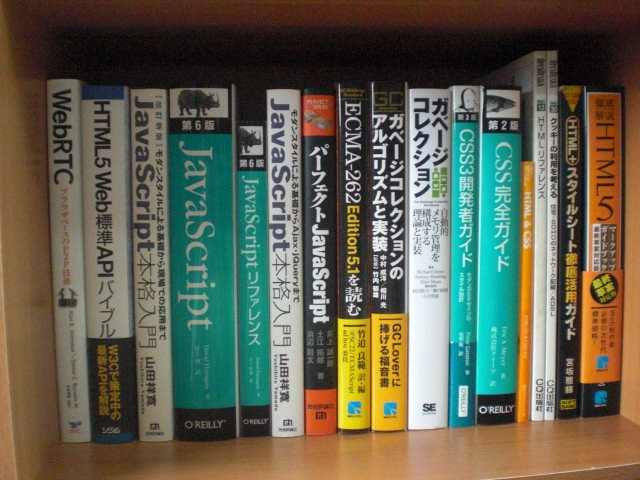
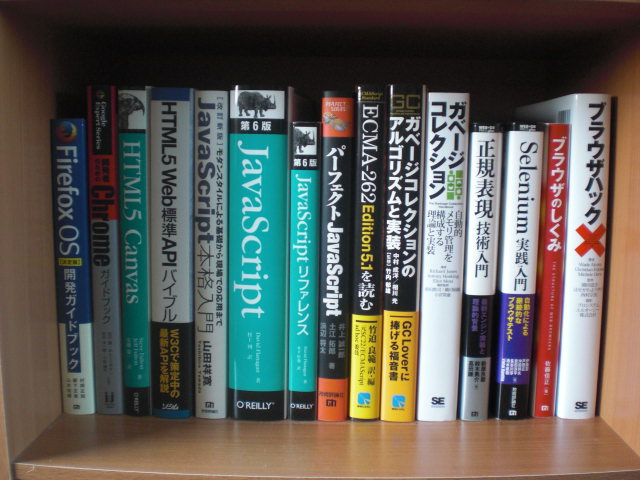
2018/03/31 時点の本棚

diff --git a/README.md b/README.md
@@ -35,13 +35,17 @@ OS・コンパイラ・Web ブラウザ開発のための和書
 
 ![本棚 3 の中段](images/3-2.JPG)
 
-## 本棚 3 の下段
+## 本棚 4 の上段
 
-![本棚 3 の下段](images/3-3.JPG)
+![本棚 4 の上段](images/4-1.JPG)
 
-## 本棚 4
+## 本棚 4 の中段
 
-![本棚 4](images/4.JPG)
+![本棚 4 の中段](images/4-2.JPG)
+
+## 本棚 5
+
+![本棚 5](images/5.JPG)
 
 ## その他(JIS 規格書)
 
@@ -49,5 +53,5 @@ OS・コンパイラ・Web ブラウザ開発のための和書
 2. JIS X 0221:2014 国際符号化文字集合(UCS)  
 3. JIS X 4168:2004 段階スタイルシート 水準1(CSS1)  
 
-![その他](images/5.JPG)
+![その他](images/6.JPG)
 
